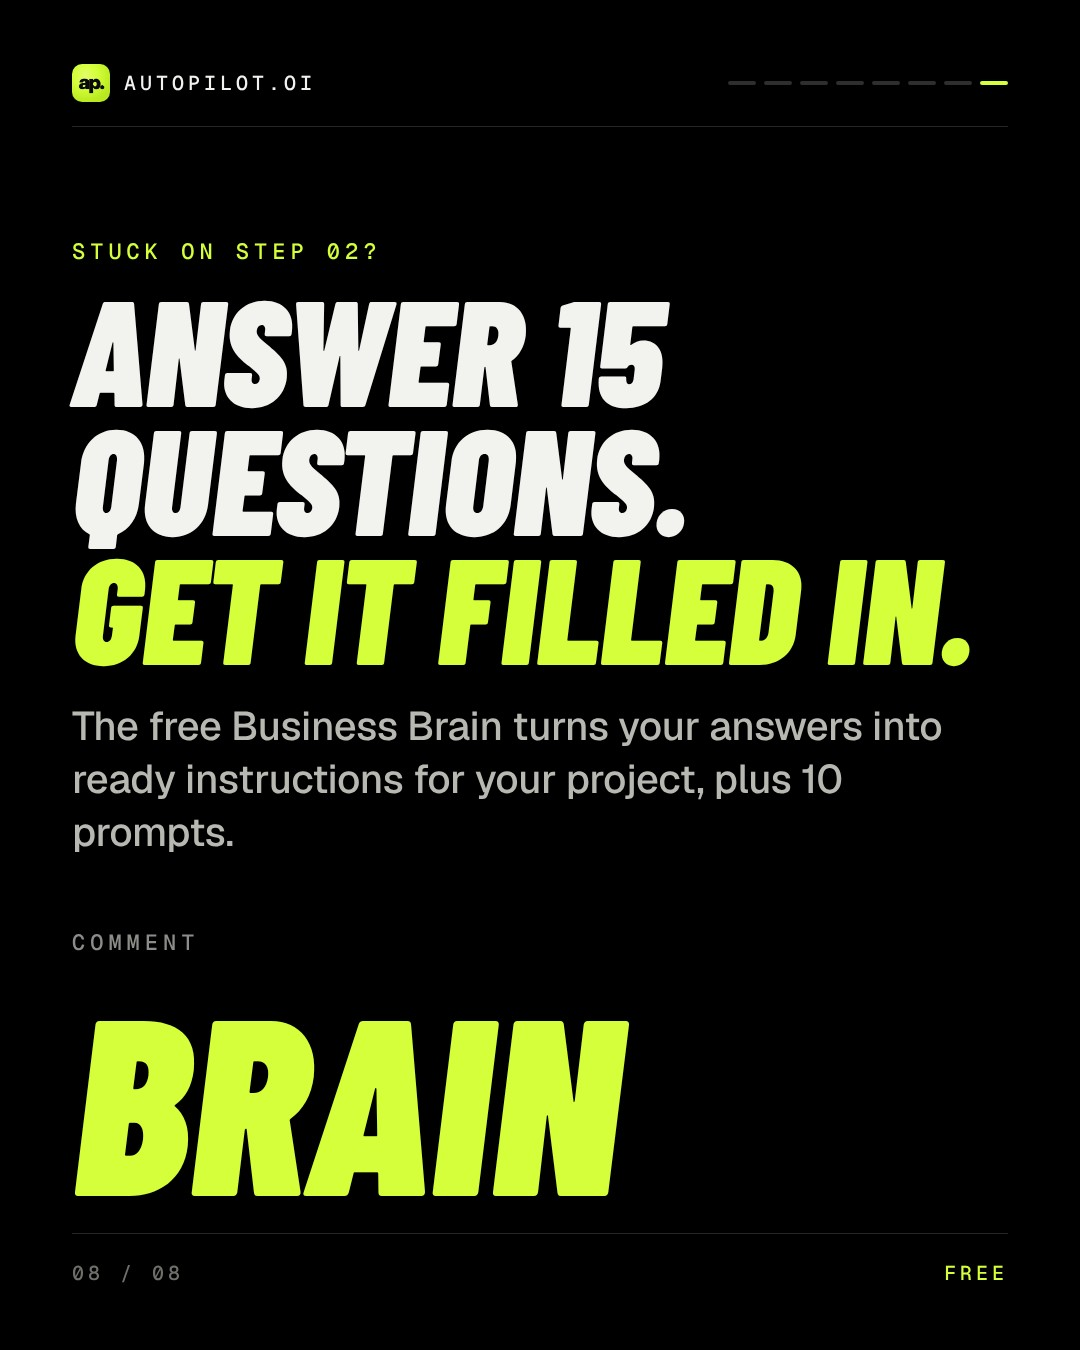
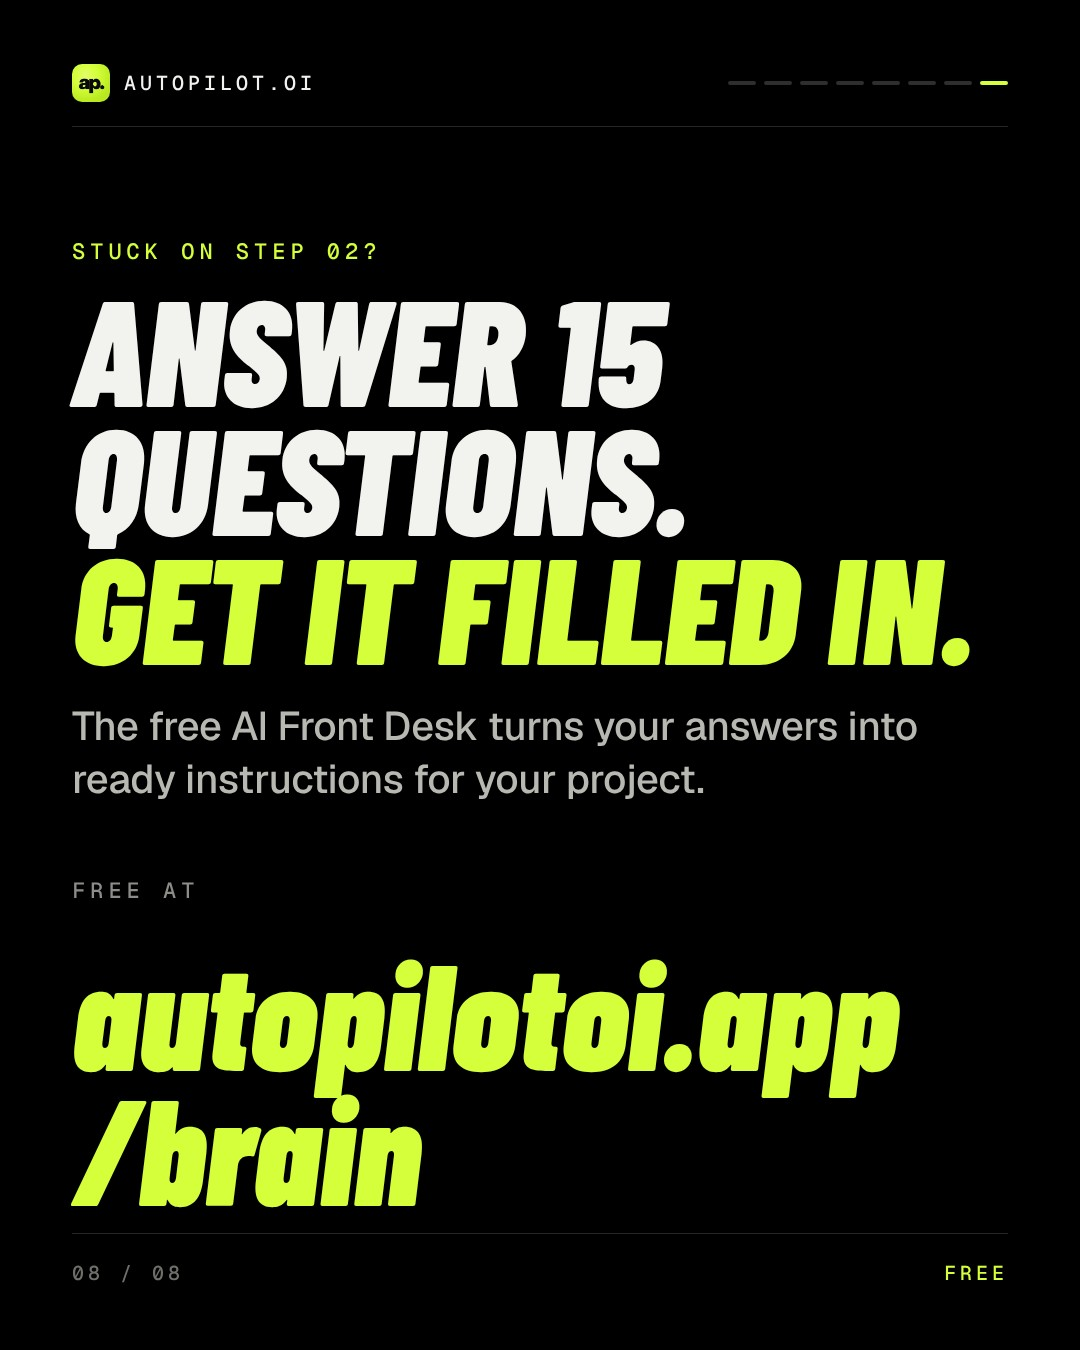
Reschedule guide carousel to Nov 2 12:30 ET (missed today when Threads API was blocked); link CTA instead of comment keyword
Claude-Session: https://claude.ai/code/session_01LKQNuFjTnFHW8WCTrpXVtT

Changed region(s): [[0.0611, 0.5911, 0.8556, 0.9022], [0.2139, 0.5289, 0.8861, 0.5911]]

diff --git a/tools/cards/guide.html b/tools/cards/guide.html
@@ -108,8 +108,8 @@
 <div class="k" id="g8"><div class="hd"><img src="logo.png"><b>AUTOPILOT.OI</b><span class="dots"><i></i><i></i><i></i><i></i><i></i><i></i><i></i><i class="on"></i></span></div>
 <div class="st" style="margin-top:110px">STUCK ON STEP 02?</div>
 <div class="h" style="font-size:150px">Answer 15 questions.<br><i>Get it filled in.</i></div>
-<div class="s">The free Business Brain turns your answers into ready instructions for your project, plus 10 prompts.</div>
-<div class="st" style="margin-top:70px;color:#8C8C88">COMMENT</div>
-<div class="kw">BRAIN</div>
+<div class="s">The free AI Front Desk turns your answers into ready instructions for your project.</div>
+<div class="st" style="margin-top:70px;color:#8C8C88">FREE AT</div>
+<div class="kw" style="font-size:150px;line-height:.9">autopilotoi.app<br>/brain</div>
 <div class="ft"><span>08 / 08</span><b>FREE</b></div></div>
 </body></html>

diff --git a/LEARNINGS.md b/LEARNINGS.md
@@ -12,3 +12,4 @@
 - 2026-10-30: Instagram API returned 'API access blocked' (OAuthException code 200) on every publish. Nothing has posted to IG via API yet. Seb posting the CREDIT reel manually to boost it. TODO: check the Meta app (AUTOPILOT INSG) for a restriction, then confirm with check_ig.yml.
 - 2026-10-30 (trend scout): Picked open enrollment health plan ad scams. Why: open enrollment starts Nov 1 (millions see these ads this week) and on Oct 29 the FTC warned 25 health plan marketers (fake government ties, fake free cash, plans that aren't real insurance); we can give a real fix (Claude red flag prompt + use HealthCare.gov or the state site). Skipped AI launches: no consumer Claude/ChatGPT/Gemini launch in the last 48h (Claude release notes latest Oct 21, GPT-6 was Oct 8). Sources: ftc.gov press release Oct 29 2026, natlawreview.com (25 warning letters), pymnts.com (19 fake FTC sites), healthcareinsider.com + healthinsurance.org (Nov 1 to Jan 15 window).
 - 2026-10-30 3 PM: Threads API now also returns "API access blocked" (our Threads app). Paused all GitHub Threads calls (config/threads.json) so we stop hitting a blocked API. Plan: Seb connects Threads in Metricool, then Threads posts go through Metricool like Instagram. Keyword auto-replies on Threads are down until then.
+- 2026-10-30: guide-01 (Claude agent tutorial) missed its 12:30 slot because Meta blocked the Threads API that afternoon. Moved it to Nov 2 12:30 ET for the Metricool loader, and swapped the Comment BRAIN ending (slide 8 and caption) for the autopilotoi.app/brain link, since Threads comments can't be auto-answered anymore.
